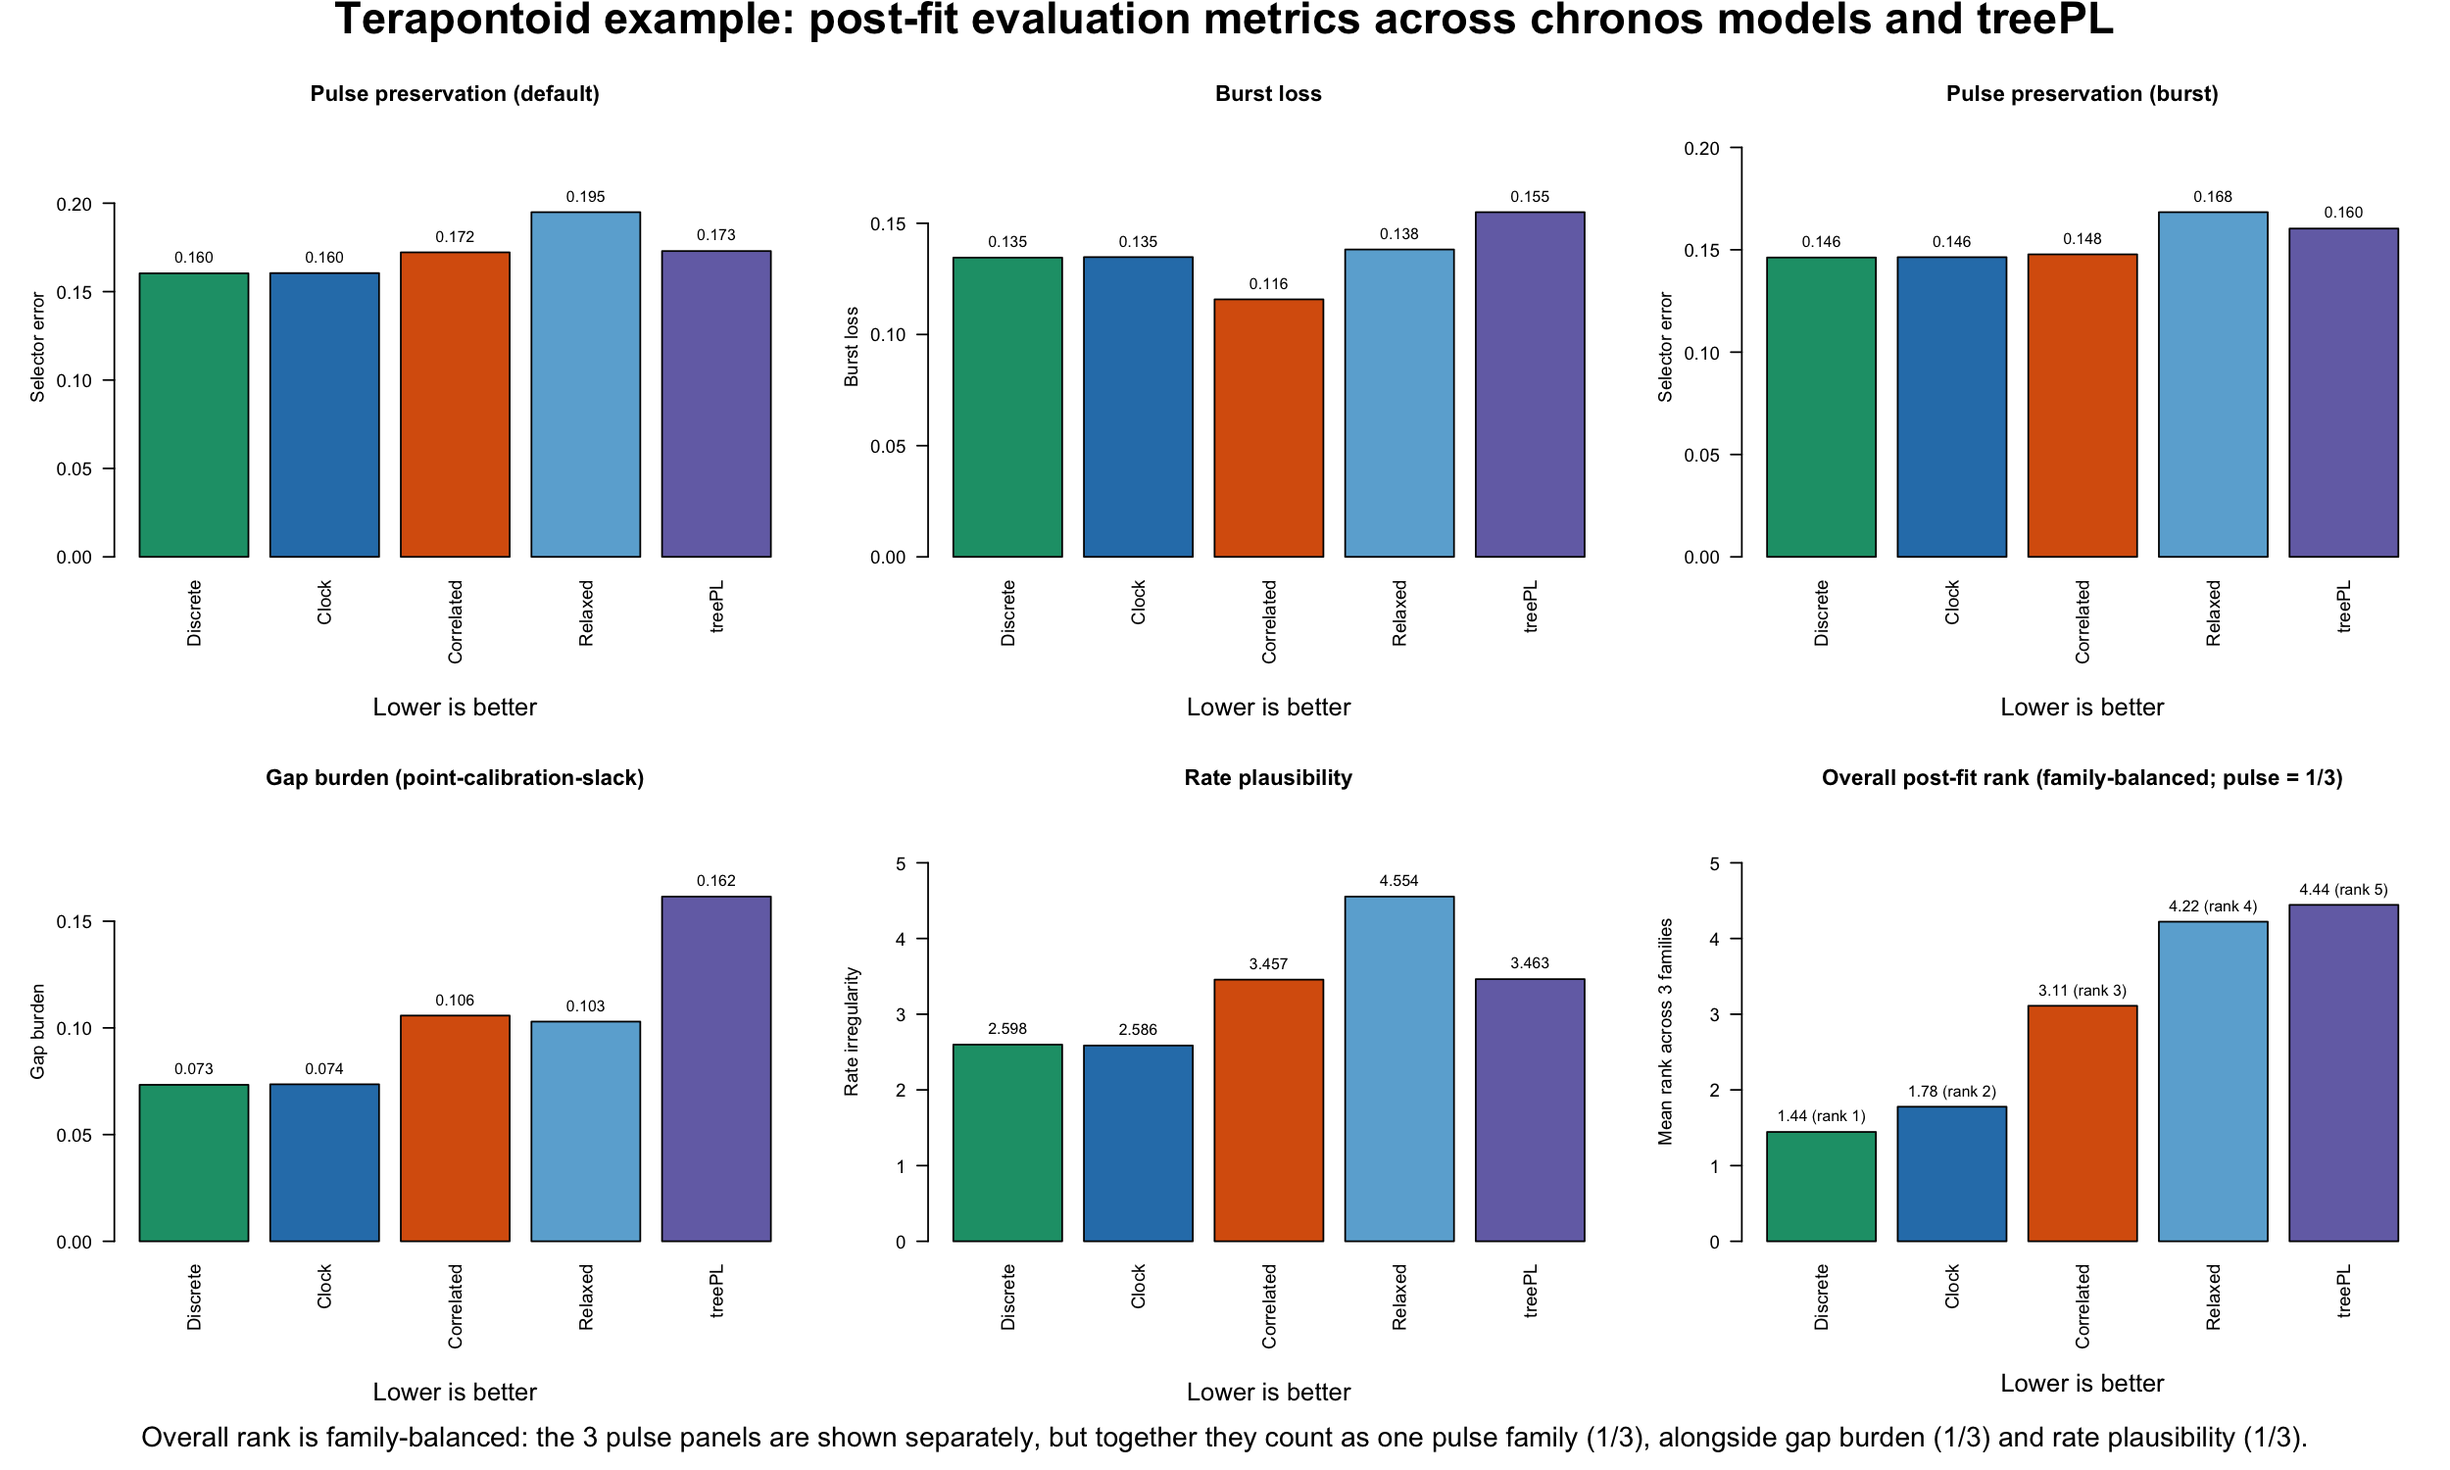
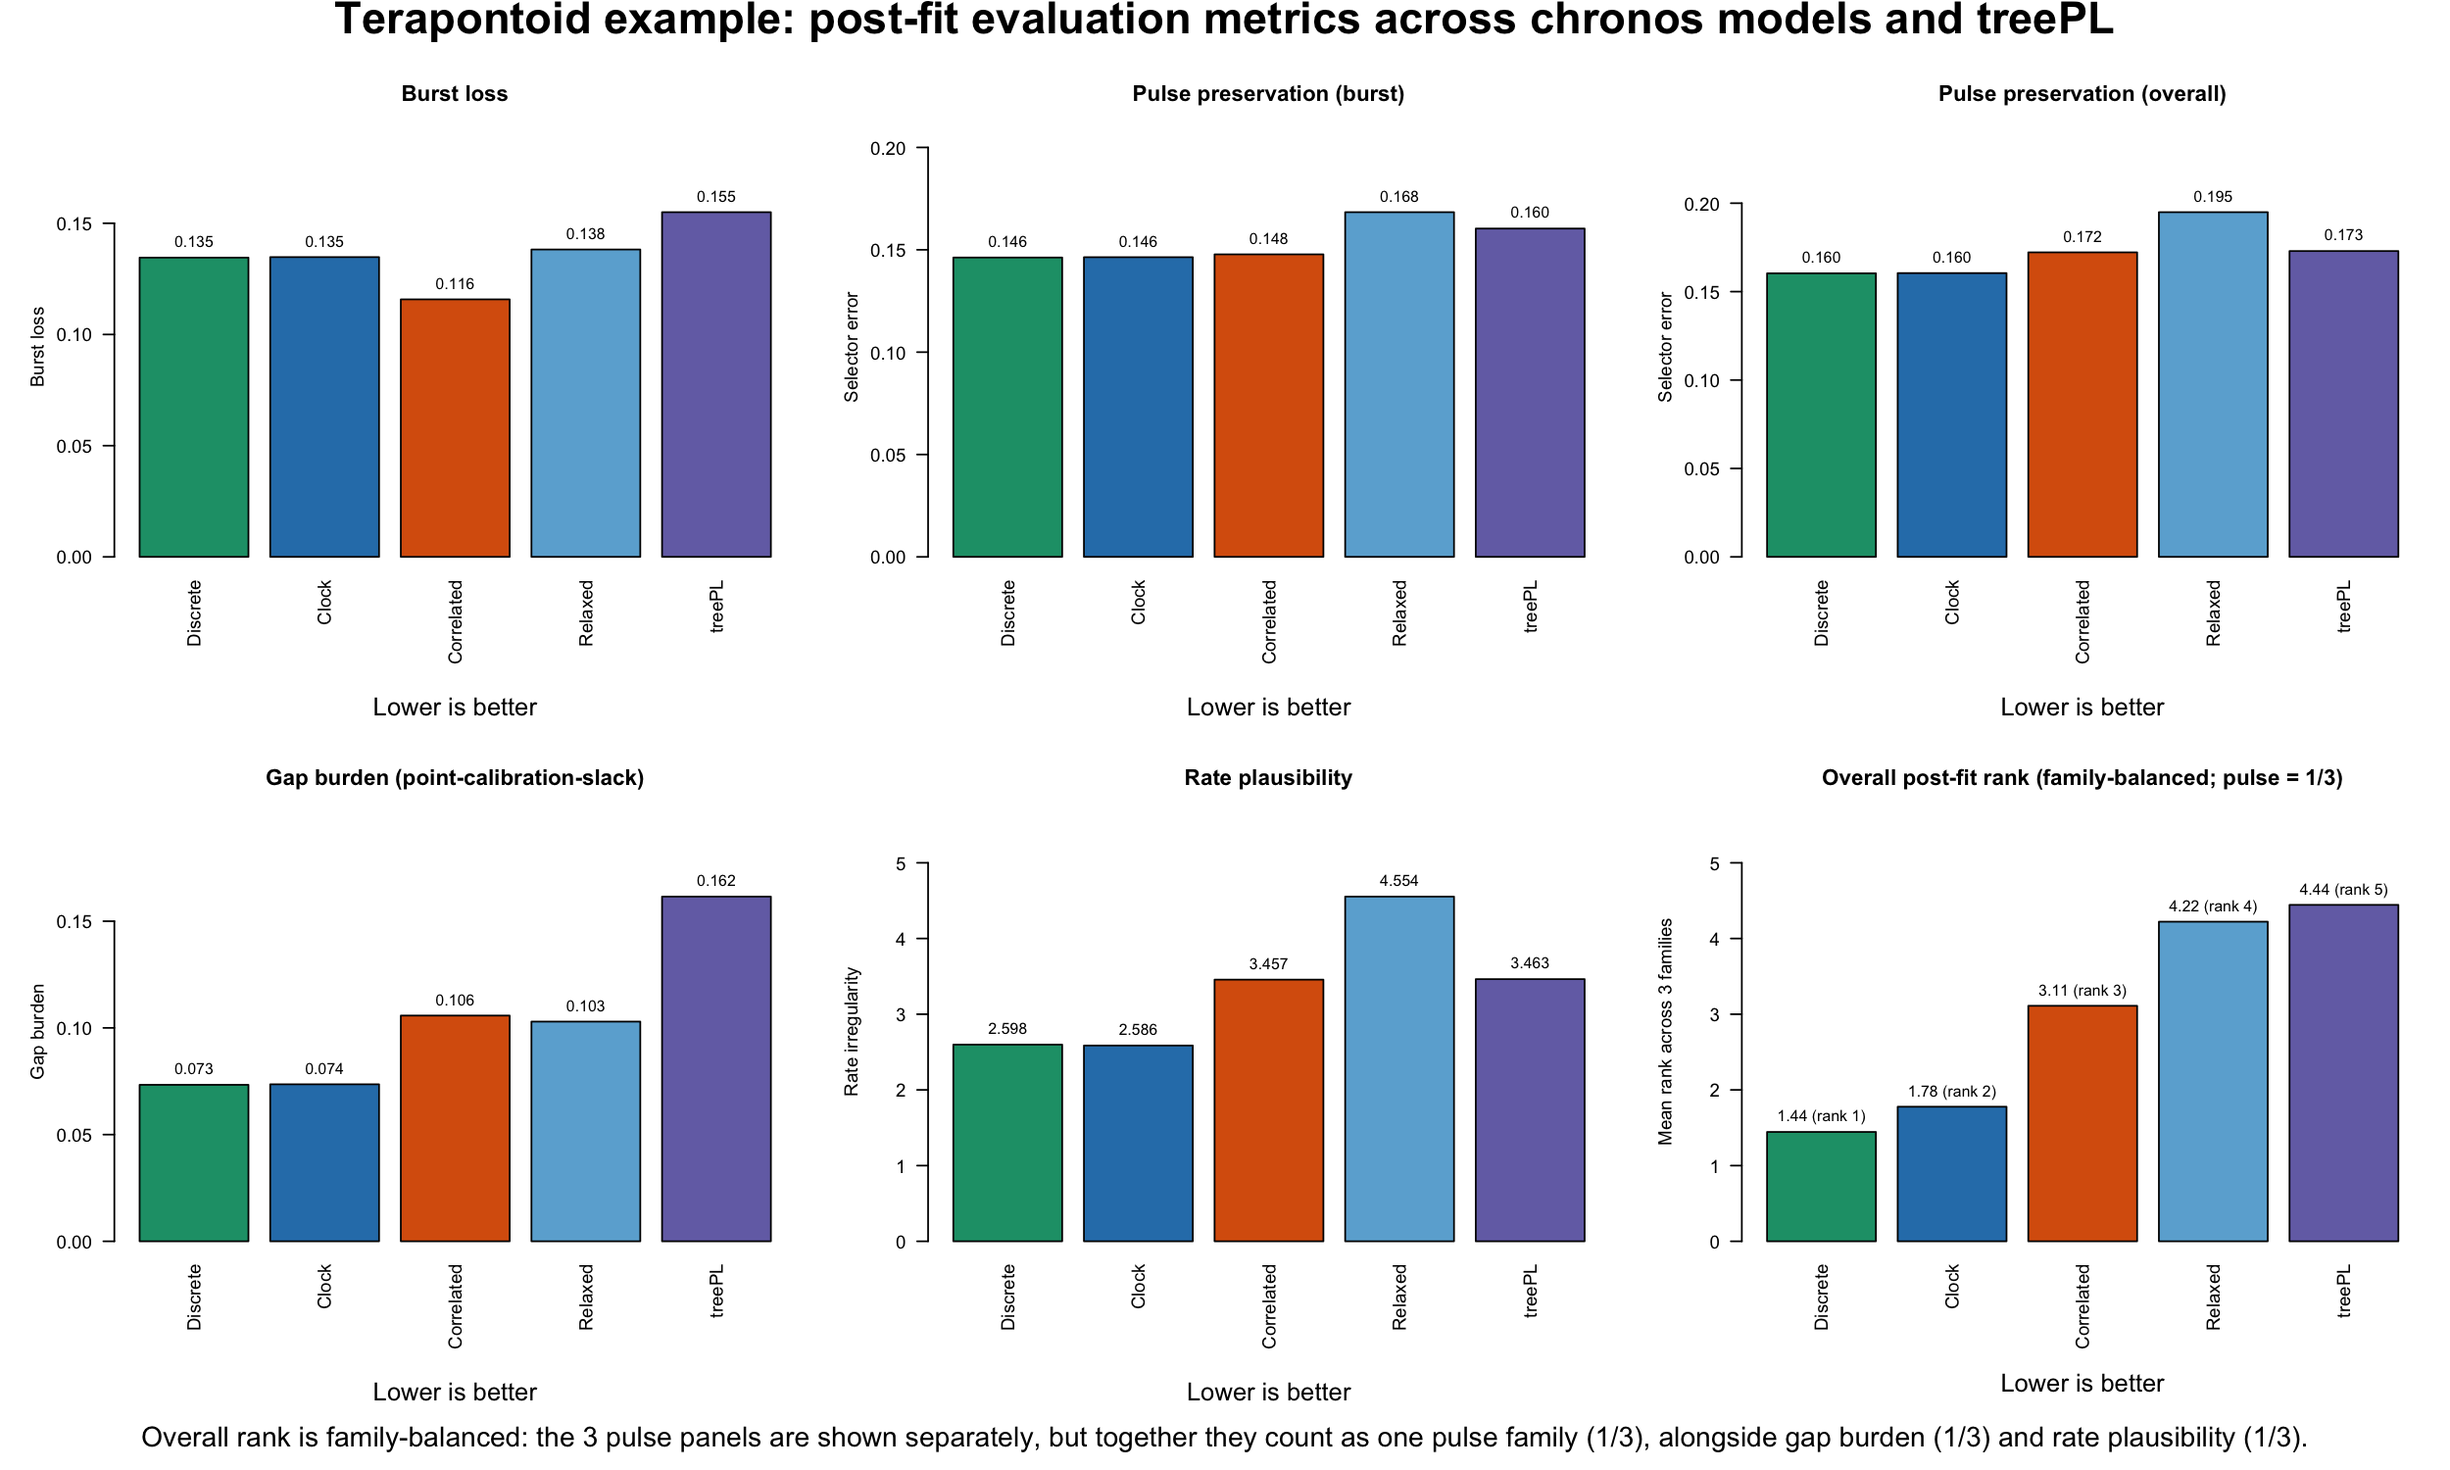
Rename pulse default label to overall

diff --git a/3_POST_FIT_EVALUATION_METRICS/README.md b/3_POST_FIT_EVALUATION_METRICS/README.md
@@ -18,7 +18,7 @@ The pipeline keeps three layers separate:
 
 This page is about that third layer. It uses three metric families:
 
-- `pulse preservation`: asks whether a dated tree keeps the same branching rhythm seen in the source phylogram. In practice, this means preserving clustered speciation bursts and quiet intervals instead of smearing them into evenly spaced splits. In this workflow, the pulse family is reported three ways: `pulse preservation (default)` is the balanced composite selector, `burst loss` is the standalone burst-flattening submetric, and `pulse preservation (burst)` is the burst-priority composite selector. This follows the branching-time and diversification-tempo literature (Harvey et al. 1994; Pybus and Harvey 2000; Ford et al. 2009).
+- `pulse preservation`: asks whether a dated tree keeps the same branching rhythm seen in the source phylogram. In practice, this means preserving clustered speciation bursts and quiet intervals instead of smearing them into evenly spaced splits. In this workflow, the pulse family is reported three ways: `burst loss` is the standalone burst-flattening submetric, `pulse preservation (burst)` is the burst-priority composite selector, and `pulse preservation (overall)` is the balanced composite selector. This follows the branching-time and diversification-tempo literature (Harvey et al. 1994; Pybus and Harvey 2000; Ford et al. 2009).
 
 - `gap burden`: asks how much extra unseen lineage history the dated tree implies relative to the calibration evidence. This is the same basic idea as ghost-lineage and stratigraphic-congruence measures (Huelsenbeck 1994; Wills 1999; Pol and Norell 2001; O'Connor and Wills 2016). Lower is usually better, but it should be interpreted carefully: fossils usually provide minimum ages, not true lineage origins, so a tree that minimizes this too aggressively can simply be too young overall (Parham et al. 2012). In the Terapontoid example, this behaves as point-calibration slack rather than literal fossil-gap burden.
 
@@ -47,13 +47,13 @@ In this Terapontoid example, `gap burden` behaves as `point-calibration slack`, 
 
 The overall mean rank below is family-balanced. The three pulse summaries are shown separately for transparency, but they are first collapsed into one pulse-family contribution. So pulse as a whole contributes one-third of the final overall rank, while `gap burden` and `rate plausibility` contribute the other two thirds.
 
-| candidate | pulse preservation (default) | burst loss | pulse preservation (burst) | gap burden | rate plausibility | overall mean rank (pulse = 1/3) |
+| candidate | burst loss | pulse preservation (burst) | pulse preservation (overall) | gap burden | rate plausibility | overall mean rank (pulse = 1/3) |
 | --- | ---: | ---: | ---: | ---: | ---: | ---: |
-| `chronos_discrete` | `0.1603` | `0.1346` | `0.1462` | `0.0733` | `2.5982` | `1.44` |
-| `chronos_clock` | `0.1605` | `0.1348` | `0.1464` | `0.0736` | `2.5861` | `1.78` |
-| `chronos_correlated` | `0.1722` | `0.1158` | `0.1478` | `0.1058` | `3.4566` | `3.11` |
-| `chronos_relaxed` | `0.1949` | `0.1382` | `0.1684` | `0.1030` | `4.5535` | `4.22` |
-| `treePL` | `0.1729` | `0.1550` | `0.1604` | `0.1615` | `3.4631` | `4.44` |
+| `chronos_discrete` | `0.1346` | `0.1462` | `0.1603` | `0.0733` | `2.5982` | `1.44` |
+| `chronos_clock` | `0.1348` | `0.1464` | `0.1605` | `0.0736` | `2.5861` | `1.78` |
+| `chronos_correlated` | `0.1158` | `0.1478` | `0.1722` | `0.1058` | `3.4566` | `3.11` |
+| `chronos_relaxed` | `0.1382` | `0.1684` | `0.1949` | `0.1030` | `4.5535` | `4.22` |
+| `treePL` | `0.1550` | `0.1604` | `0.1729` | `0.1615` | `3.4631` | `4.44` |
 
 In short: `chronos_discrete` leads both pulse selector summaries and `gap burden`, `chronos_correlated` minimizes the standalone `burst_loss` submetric, and `chronos_clock` leads `rate plausibility`. When pulse is treated as one family contributing one-third of the final score, `chronos_relaxed` edges above `treePL` overall because `treePL` has the highest `gap burden`.
 
